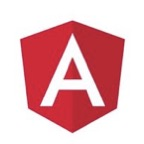
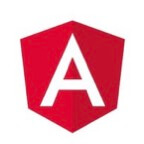
reduce image

Changed region(s): [[0.1389, 0.1389, 0.8611, 0.9167], [0.4444, 0.4167, 0.5556, 0.5556]]

diff --git a/README.md b/README.md
@@ -8,6 +8,8 @@ https://angular-id-rssfeed.firebaseapp.com/
 
 ## Medium Article
 
+*in progress*
+
 ## Technology
 
 - Angular v5.2.8
@@ -22,6 +24,8 @@ https://angular-id-rssfeed.firebaseapp.com/
 ## Webpagetest Easy Result
 
 https://www.webpagetest.org/result/180308_YB_53796ed3fc154d3f3aec46f8cce009de/
+
+https://www.webpagetest.org/result/180308_DH_d8c3ac61f09884abb47fddd81f49c70c/
 
 
 Copyright © 2018 Built with ❤ for 🇮🇩 by Irfan Maulana
